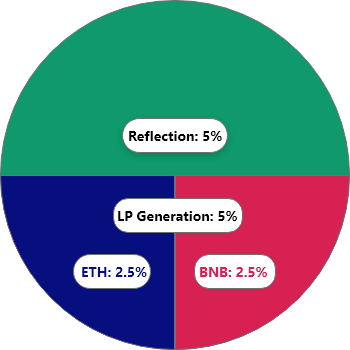
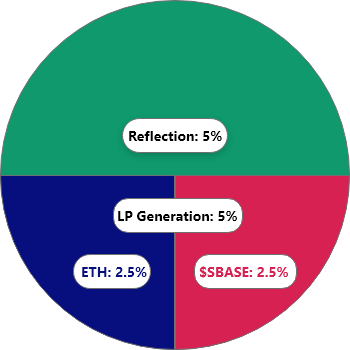
refactor

Changed region(s): [[0.5714, 0.7143, 0.8571, 0.8286]]

diff --git a/pages/index.tsx b/pages/index.tsx
@@ -12,116 +12,167 @@ export default function Home(): JSX.Element {
         <link rel="icon" href="/favicon.ico" />
       </Head>
 
-      <header className="bg-primary text-white p-2">
-        <h1>
-          <Image src="/favicon-32x32.png" width="32" height="32" /> Super Base
+      <header className="bg-primary text-white p-1">
+        <h1 className="font-italic">
+          <Image
+            src="/favicon-32x32.png"
+            width="32"
+            height="32"
+            alt="super base"
+          />{' '}
+          Super Base
         </h1>
       </header>
 
       <main
         style={{
           backgroundColor: '#113',
+          backgroundImage: "url('/sbcryptograph.jpg')",
+          backgroundSize: 'cover',
+          backgroundPosition: 'center',
         }}
       >
         <div className="container py-5 text-white">
-          <h2>Introducing Super Base</h2>
-          <p>
+          <Image
+            src="/sbcrypto.jpg"
+            width="300"
+            height="100"
+            sizes="100"
+            alt="coins in hand"
+          />
+          <h2 className="mt-5">Introducing Super Base</h2>
+          <p
+            className="m-5 rounded p-3"
+            style={{
+              backgroundColor: 'rgba(0, 0, 0, 0.75)',
+            }}
+          >
             <b>Super Base</b> combines the Rebasing concept, Auto Liquidity
             Generation and the Big brained RFI tech by taking a 10% fee on every
-            UNISWAP sale. That fee is broken up into 2 parts:
+            uniswap sell. That fee is broken up into 2 parts:
           </p>
-          <ol>
+          <Image
+            src="/sbcryptoanalysis.jpg"
+            width="300"
+            height="100"
+            sizes="100"
+            alt="chart"
+          />
+          <ol
+            className="mt-5 rounded p-5"
+            style={{
+              backgroundColor: 'rgba(0, 0, 0, 0.75)',
+            }}
+          >
             <li>
               <b>Reflection</b> — 5% of the fee is distributed to every wallet
               that holds $SBASE on a percentage basis. The more $SBASE you hold
               the more tokens you will receive.
             </li>
+            <br />
             <li>
               <b>LP Generation</b> — 5% of the fee- 2.5% of the fee collected in
-              $SBASE is sold into ETH; that BNB is married up with the remaining
-              2.5% of $SBASE and deposited back into the UNISWAP liquidity pool.
+              $SBASE is sold into ETH; that ETH is married up with the remaining
+              2.5% of $SBASE and deposited back into the uniswap liquidity pool.
             </li>
           </ol>
           <div className="my-4">
-            <h3 className="text-center my-5">UNISWAP 10% Fee Breakdown</h3>
+            <h3 className="text-center my-5">uniswap 10% Fee Breakdown</h3>
             <div
               style={{
-                width: 330,
+                width: 300,
                 margin: '0 auto',
               }}
             >
-              <Image src="/breakdown@2x.png" width="330" height="330" />
+              <Image
+                src="/breakdown@2x.png"
+                width="320"
+                height="320"
+                alt="chart"
+              />
             </div>
           </div>
           <br />
           <h2>What makes Super Base special:</h2>
-          <ul>
-            <li>Rebase is triggered hourly as long as price is above peg.</li>
-            <li>A constant rebase of 5%.</li>
-            <li>
-              Peg price increases by 50% after two immediate successful rebase.
-            </li>
-            <li>Peg goes back to last rebase peg after two hours of rebase.</li>
-            <li>
-              Holders gets more tokens for just holding 5% distribution among
-              holders and compounding rebase.
-            </li>
-            <li>No negative rebase.</li>
-          </ul>
-          <Card
-            style={{
-              maxWidth: 'fit-content',
-              margin: '3.5rem auto',
-              color: 'black',
-            }}
-          >
-            <Card.Header>
-              <h2>
-                <MdReport size="35" /> Tokenomics
-              </h2>
-            </Card.Header>
-            <Card.Body>
-              <div className="d-flex">
-                <div className="justify-content-center">
-                  <p className="bg-info badge-pill p-1 text-center">
-                    Total Supply <Badge variant="success">6.2m</Badge>{' '}
-                    <GiToken size="25" color="gold" />
-                  </p>
-                  <p className="bg-info badge-pill p-1 text-center">
-                    Private Sale <Badge variant="success">657k</Badge> (33k){' '}
-                    <GiToken size="25" color="gold" />
-                  </p>
-                </div>
-                <div className="justify-content-center">
-                  <p className="bg-info badge-pill p-1 text-center">
-                    Pre Sale <Badge variant="success">2.6m</Badge>{' '}
-                    <GiToken size="25" color="gold" />
-                  </p>
-                  <p className="bg-info badge-pill p-1 text-center">
-                    Liquidity <Badge variant="success">2.3m</Badge>{' '}
-                    <GiToken size="25" color="gold" />
-                  </p>
-                </div>
-                <div className="justify-content-center">
-                  <p className="bg-info badge-pill p-1 text-center">
-                    Marketing <Badge variant="success">360k</Badge>{' '}
-                    <GiToken size="25" color="gold" />
-                  </p>
-                  <p className="bg-info badge-pill p-1 text-center">
-                    Team <Badge variant="success">327k</Badge>{' '}
-                    <GiToken size="25" color="gold" />
-                  </p>
-                </div>
-              </div>
-            </Card.Body>
-          </Card>
           <div
+            className="rounded p-3"
             style={{
-              width: 330,
-              margin: '0 auto',
+              backgroundColor: 'rgba(0, 0, 0, 0.75)',
             }}
           >
-            <Image src="/super-base-chart.png" width="330" height="330" />
+            <ul>
+              <li>
+                Rebase is triggered hourly as long as price is above dynamic
+                peg.
+              </li>
+              <li>Hourly constant 5% rebase when price is above peg</li>
+              <li>Peg price increases by 50% after two back to back rebase.</li>
+              <li>
+                Peg goes back to last rebase peg after two hours of rebase.
+              </li>
+              <li>
+                Holders gets more tokens for holding just 5% distribution among
+                holders and compounding rebase.
+              </li>
+              <li>No negative rebase.</li>
+            </ul>
+          </div>
+          <hr />
+          <div className="d-flex flex-wrap">
+            <Card
+              style={{
+                maxWidth: 'fit-content',
+                margin: '3.5rem auto',
+                color: 'black',
+              }}
+            >
+              <Card.Header>
+                <h2>
+                  <MdReport size="35" /> Tokenomics
+                </h2>
+              </Card.Header>
+              <Card.Body>
+                <div
+                  className="container"
+                  style={{
+                    fontSize: '1.1rem',
+                  }}
+                >
+                  <p className="bg-info badge-pill p-1 text-center">
+                    Total Supply <Badge variant="success">6,200,000</Badge>{' '}
+                    <GiToken size="25" color="gold" />
+                  </p>
+                  <p className="bg-info badge-pill p-1 text-center">
+                    Private Sale <Badge variant="success">657,140</Badge>{' '}
+                    (32,857) <GiToken size="25" color="gold" />
+                  </p>
+                  <p className="bg-info badge-pill p-1 text-center">
+                    Pre Sale <Badge variant="success">2,555,600</Badge>{' '}
+                    <GiToken size="25" color="gold" />
+                  </p>
+                  <p className="bg-info badge-pill p-1 text-center">
+                    Liquidity <Badge variant="success">2,300,000</Badge>{' '}
+                    <GiToken size="25" color="gold" />
+                  </p>
+                  <p className="bg-info badge-pill p-1 text-center">
+                    Marketing <Badge variant="success">360,000</Badge>{' '}
+                    <GiToken size="25" color="gold" />
+                  </p>
+                  <p className="bg-info badge-pill p-1 text-center">
+                    Team <Badge variant="success">327,260</Badge>{' '}
+                    <GiToken size="25" color="gold" />
+                  </p>
+                </div>
+              </Card.Body>
+            </Card>
+            <div
+              style={{
+                width: 300,
+                margin: '7rem auto 0',
+              }}
+            >
+              <Image src="/sbchart.png" width="300" height="320" alt="chart" />
+            </div>
           </div>
         </div>
       </main>
